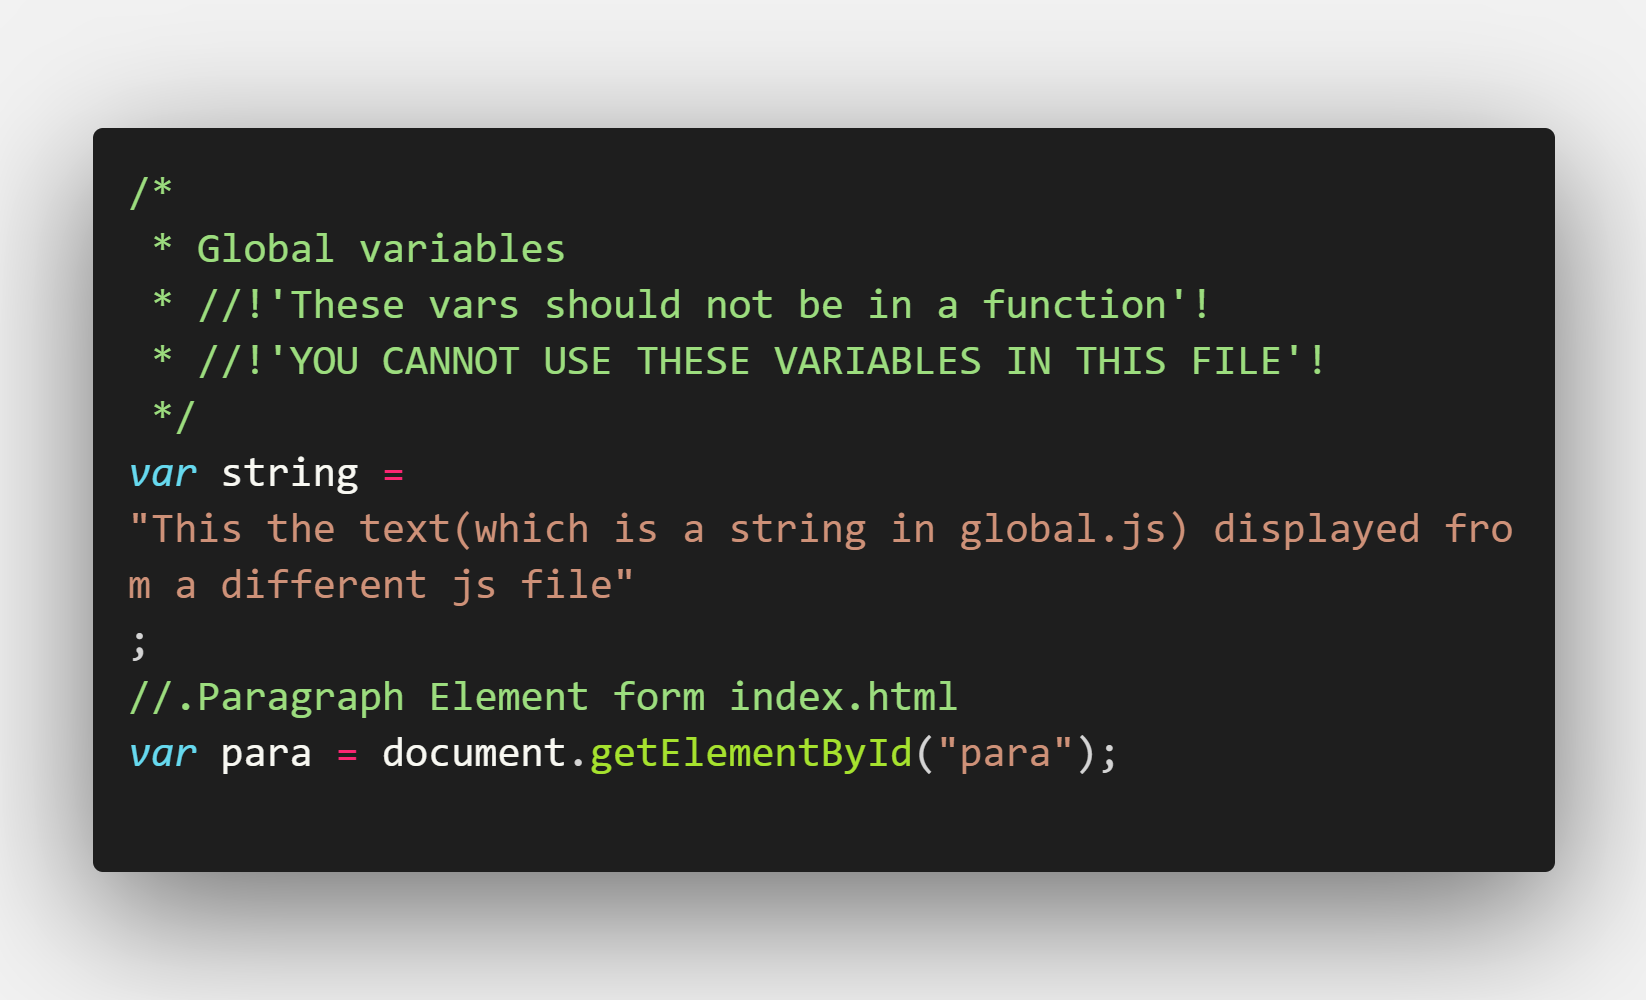
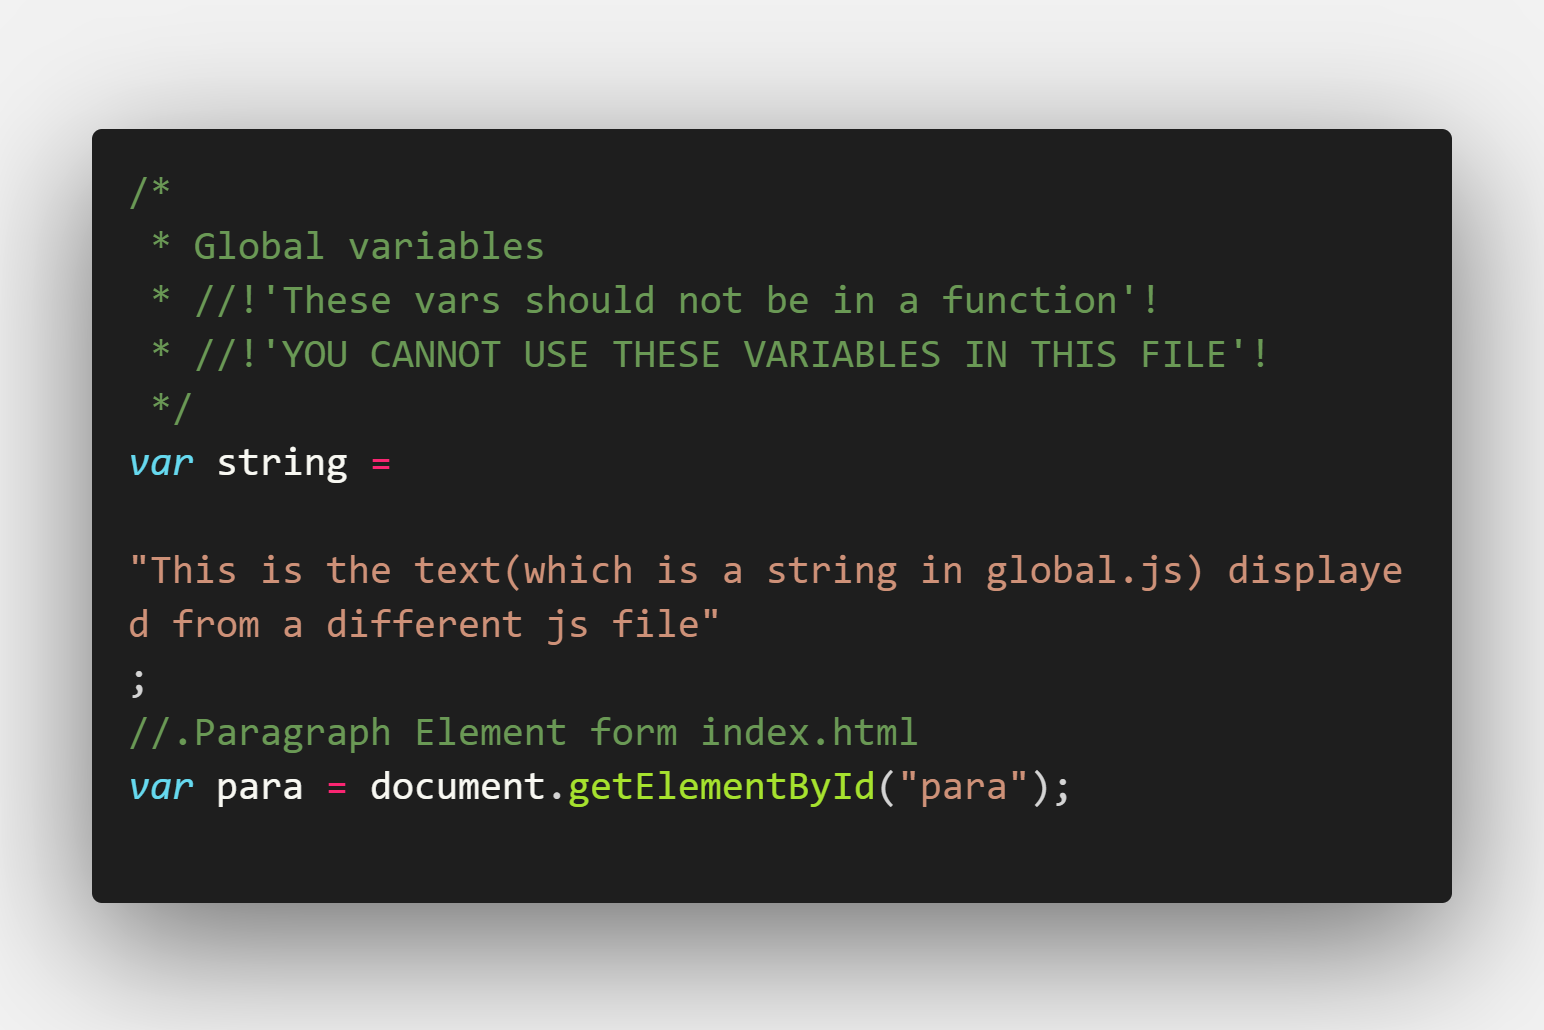
added new img

Changed region(s): [[0.0311, 0.124, 0.9637, 0.868], [0.0622, 0.868, 0.9326, 0.899], [0.0933, 0.155, 0.1244, 0.186]]

diff --git a/scripts/global.js b/scripts/global.js
@@ -4,6 +4,6 @@
  * //!'YOU CANNOT USE THESE VARIABLES IN THIS FILE'!
  */
 var string =
-   "This the text(which is a string in global.js) displayed from a different js file";
+   "This is the text(which is a string in global.js) displayed from a different js file";
 //.Paragraph Element form index.html
 var para = document.getElementById("para");
